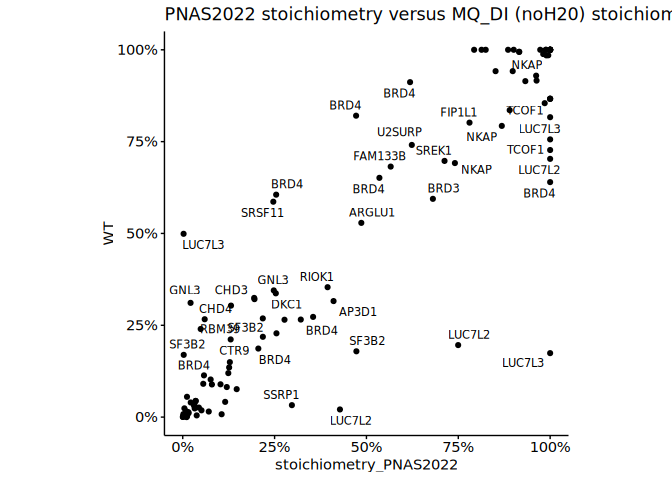
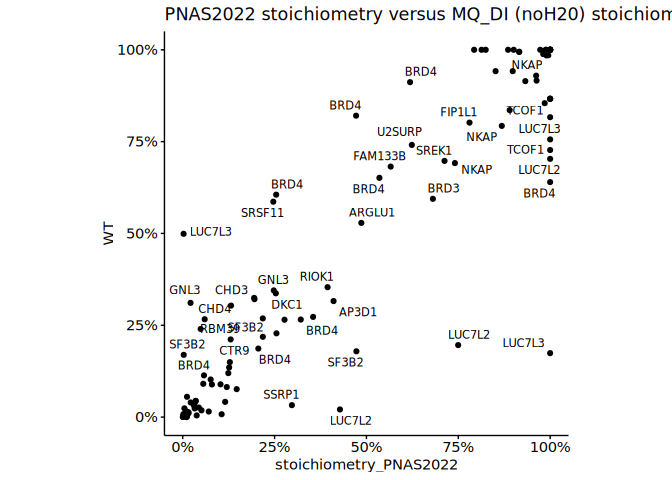
histone protein stoichiometry added

diff --git a/R/p2_lysine-rich-domain-LCMS/p2-4-diagnostic-ions.md b/R/p2_lysine-rich-domain-LCMS/p2-4-diagnostic-ions.md
@@ -1,7 +1,7 @@
 2-4. Analysis of lysine hydroxylations using diagnostic ions
 ================
 Yoichiro Sugimoto and Pallavi Kesavan
-07 January, 2026
+08 January, 2026
 
 - [Overview](#overview)
 - [Environment setup](#environment-setup)
@@ -175,9 +175,8 @@ library("ptm.stoichiometry")
 data.dir <- file.path(project.dir, "data")
 results.dir <- file.path(project.dir, "results")
 
-### To be deleted
-results.dir <- file.path("/fast/AG_Sugimoto/home/users/yoichiro/projects/20241111_PTMs_in_lysine_rich_domains/results")
-
+## To be deleted
+results.dir <- file.path("/fast/AG_Sugimoto/home/users/yoichiro/projects/20241111_PTMs_in_lysine_rich_domains", "results")
 
 # Import human protein reference data from specified file path 
 ref_protein_dt <- import_reference_fasta(
@@ -532,6 +531,30 @@ ggplot(
     ## (`geom_text_repel()`).
 
 ![](p2-4-diagnostic-ions_files/figure-gfm/hydroxylation_sites_DI_JMJD6KO_noH20loss-1.png)<!-- -->
+
+``` r
+ggplot(
+  data = MQ_DI_d.hydroxyK_dt[order(is_diagnostic_peak)],
+  aes(
+    x = JMJD6KO,
+    y = WT,
+    color = is_diagnostic_peak
+  )
+) + geom_point() +
+  ggrepel::geom_text_repel(aes(label = ifelse(
+    is_diagnostic_peak == TRUE &
+    grepl("^H", gene_name), paste0(gene_name, "\n(", aa_pos, ")"), NA)), max.overlaps = 1000) +
+  theme(aspect.ratio = 1) +
+  scale_color_manual(values = c("TRUE" = "#A50026", "FALSE" = "#DDDDDD"))
+```
+
+    ## Warning: Removed 497 rows containing missing values or values outside the scale range
+    ## (`geom_point()`).
+
+    ## Warning: Removed 1858 rows containing missing values or values outside the scale range
+    ## (`geom_text_repel()`).
+
+![](p2-4-diagnostic-ions_files/figure-gfm/hydroxylation_sites_DI_JMJD6KO_noH20loss-2.png)<!-- -->
 
 # 2.4.6 Comparison of data without and with DI consideration
 
@@ -1085,7 +1108,7 @@ sessioninfo::session_info()
     ##  collate  C.UTF-8
     ##  ctype    C.UTF-8
     ##  tz       Europe/Berlin
-    ##  date     2026-01-07
+    ##  date     2026-01-08
     ##  pandoc   3.2 @ /usr/lib/rstudio-server/bin/quarto/bin/tools/x86_64/ (via rmarkdown)
     ##  quarto   1.5.57 @ /usr/lib/rstudio-server/bin/quarto/bin/quarto
     ## 
